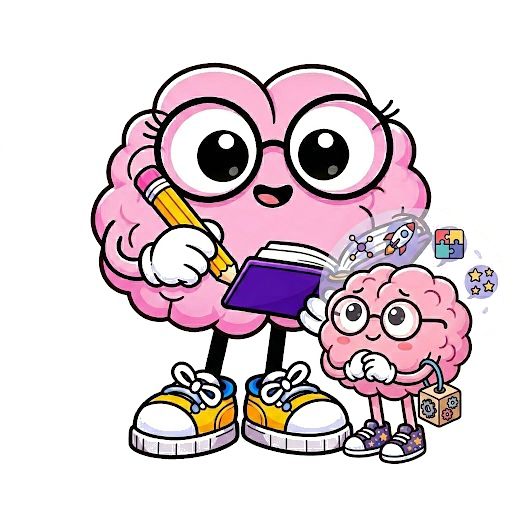
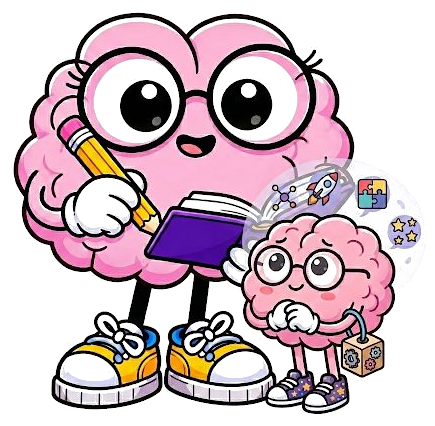
cd

diff --git a/components/ServicesSection.tsx b/components/ServicesSection.tsx
@@ -39,10 +39,9 @@ export default function ServicesSection() {
                 whileHover={{ y: -10, rotate: index % 2 ? -1 : 1 }}
                 className="group flex h-full flex-col overflow-hidden rounded-[2.2rem] bg-white shadow-soft"
               >
-                <div className="relative h-48 overflow-hidden">
-                  <img src={service.image} alt={service.title} className="h-full w-full bg-[#f9f7ff] p-4 object-contain transition duration-500 group-hover:scale-105" />
-                  <div className="absolute inset-0 bg-gradient-to-t from-tinta/25 to-transparent" />
-                  <div style={{ backgroundColor: service.color }} className="absolute left-4 top-4 flex h-14 w-14 items-center justify-center rounded-2xl text-tinta shadow-soft">
+                <div className="relative flex h-48 items-center justify-center overflow-hidden bg-[#f8f6ff]">
+                  <img src={service.image} alt={service.title} className="h-full w-full object-contain p-4 transition duration-500 group-hover:scale-105" />
+                                    <div style={{ backgroundColor: service.color }} className="absolute left-4 top-4 flex h-14 w-14 items-center justify-center rounded-2xl text-tinta shadow-soft">
                     <Icon size={27} />
                   </div>
                 </div>

diff --git a/lib/site-data.ts b/lib/site-data.ts
@@ -31,7 +31,7 @@ export const site = {
   trust: [
     { title: "Aprendizaje con amor", text: "Procesos cálidos, respetuosos y pensados para que cada niño se sienta seguro." },
     { title: "Atención personalizada", text: "Cada acompañamiento se adapta al ritmo, necesidades y fortalezas del niño." },
-    { title: "Resultados reales", text: "Aplicamos una metodología integral que funciona: identificamos cómo aprende cada niño y utilizamos estrategias específicas para que avance, gane confianza y mejore sus resultados." },
+    { title: "Resultados reales", text: "Aplicamos una metodología integral que funciona. Identificamos cómo aprende cada niño y utilizamos estrategias específicas para que avance, gane confianza y mejore sus resultados." },
     { title: "Acompañamiento familiar", text: "Orientación cercana para que la familia también sea parte del progreso." }
   ],
   services: [

diff --git a/app/page.tsx b/app/page.tsx
@@ -5,7 +5,6 @@ import TrustSection from "@/components/TrustSection";
 import ServicesSection from "@/components/ServicesSection";
 import MethodSection from "@/components/MethodSection";
 import PlayLearningSection from "@/components/PlayLearningSection";
-import TeamSection from "@/components/TeamSection";
 import TestimonialsSection from "@/components/TestimonialsSection";
 import CTASection from "@/components/CTASection";
 import FAQSection from "@/components/FAQSection";
@@ -22,7 +21,6 @@ export default function Home() {
       <ServicesSection />
       <MethodSection />
       <PlayLearningSection />
-      <TeamSection />
       <TestimonialsSection />
       <CTASection />
       <FAQSection />

diff --git a/components/Footer.tsx b/components/Footer.tsx
@@ -14,7 +14,7 @@ export default function Footer() {
         <div>
           <h3 className="mb-4 text-lg font-black">Menú</h3>
           <div className="grid gap-3 text-white/75">
-            <a href="#inicio">Inicio</a><a href="#servicios">Servicios</a><a href="#metodo">Método</a><a href="#equipo">Equipo</a><a href="#contacto">Contacto</a>
+            <a href="#inicio">Inicio</a><a href="#servicios">Servicios</a><a href="#metodo">Método</a><a href="#contacto">Contacto</a>
           </div>
         </div>
         <div>

diff --git a/components/Hero.tsx b/components/Hero.tsx
@@ -8,9 +8,9 @@ import Logo from "./Logo";
 
 const chips = [
   "Programa After school / estudio dirigido",
-  "Tutoría sombra especializada",
   "Programa de Lectoescritura intensivo",
   "Programa de Lectoescritura sabatino",
+  "Tutoría sombra especializada",
   "Clases de bailes urbanos"
 ];
 

diff --git a/components/Header.tsx b/components/Header.tsx
@@ -10,7 +10,6 @@ const nav = [
   ["Inicio", "#inicio"],
   ["Servicios", "#servicios"],
   ["Método", "#metodo"],
-  ["Equipo", "#equipo"],
   ["Testimonios", "#testimonios"],
   ["Contacto", "#contacto"]
 ];
